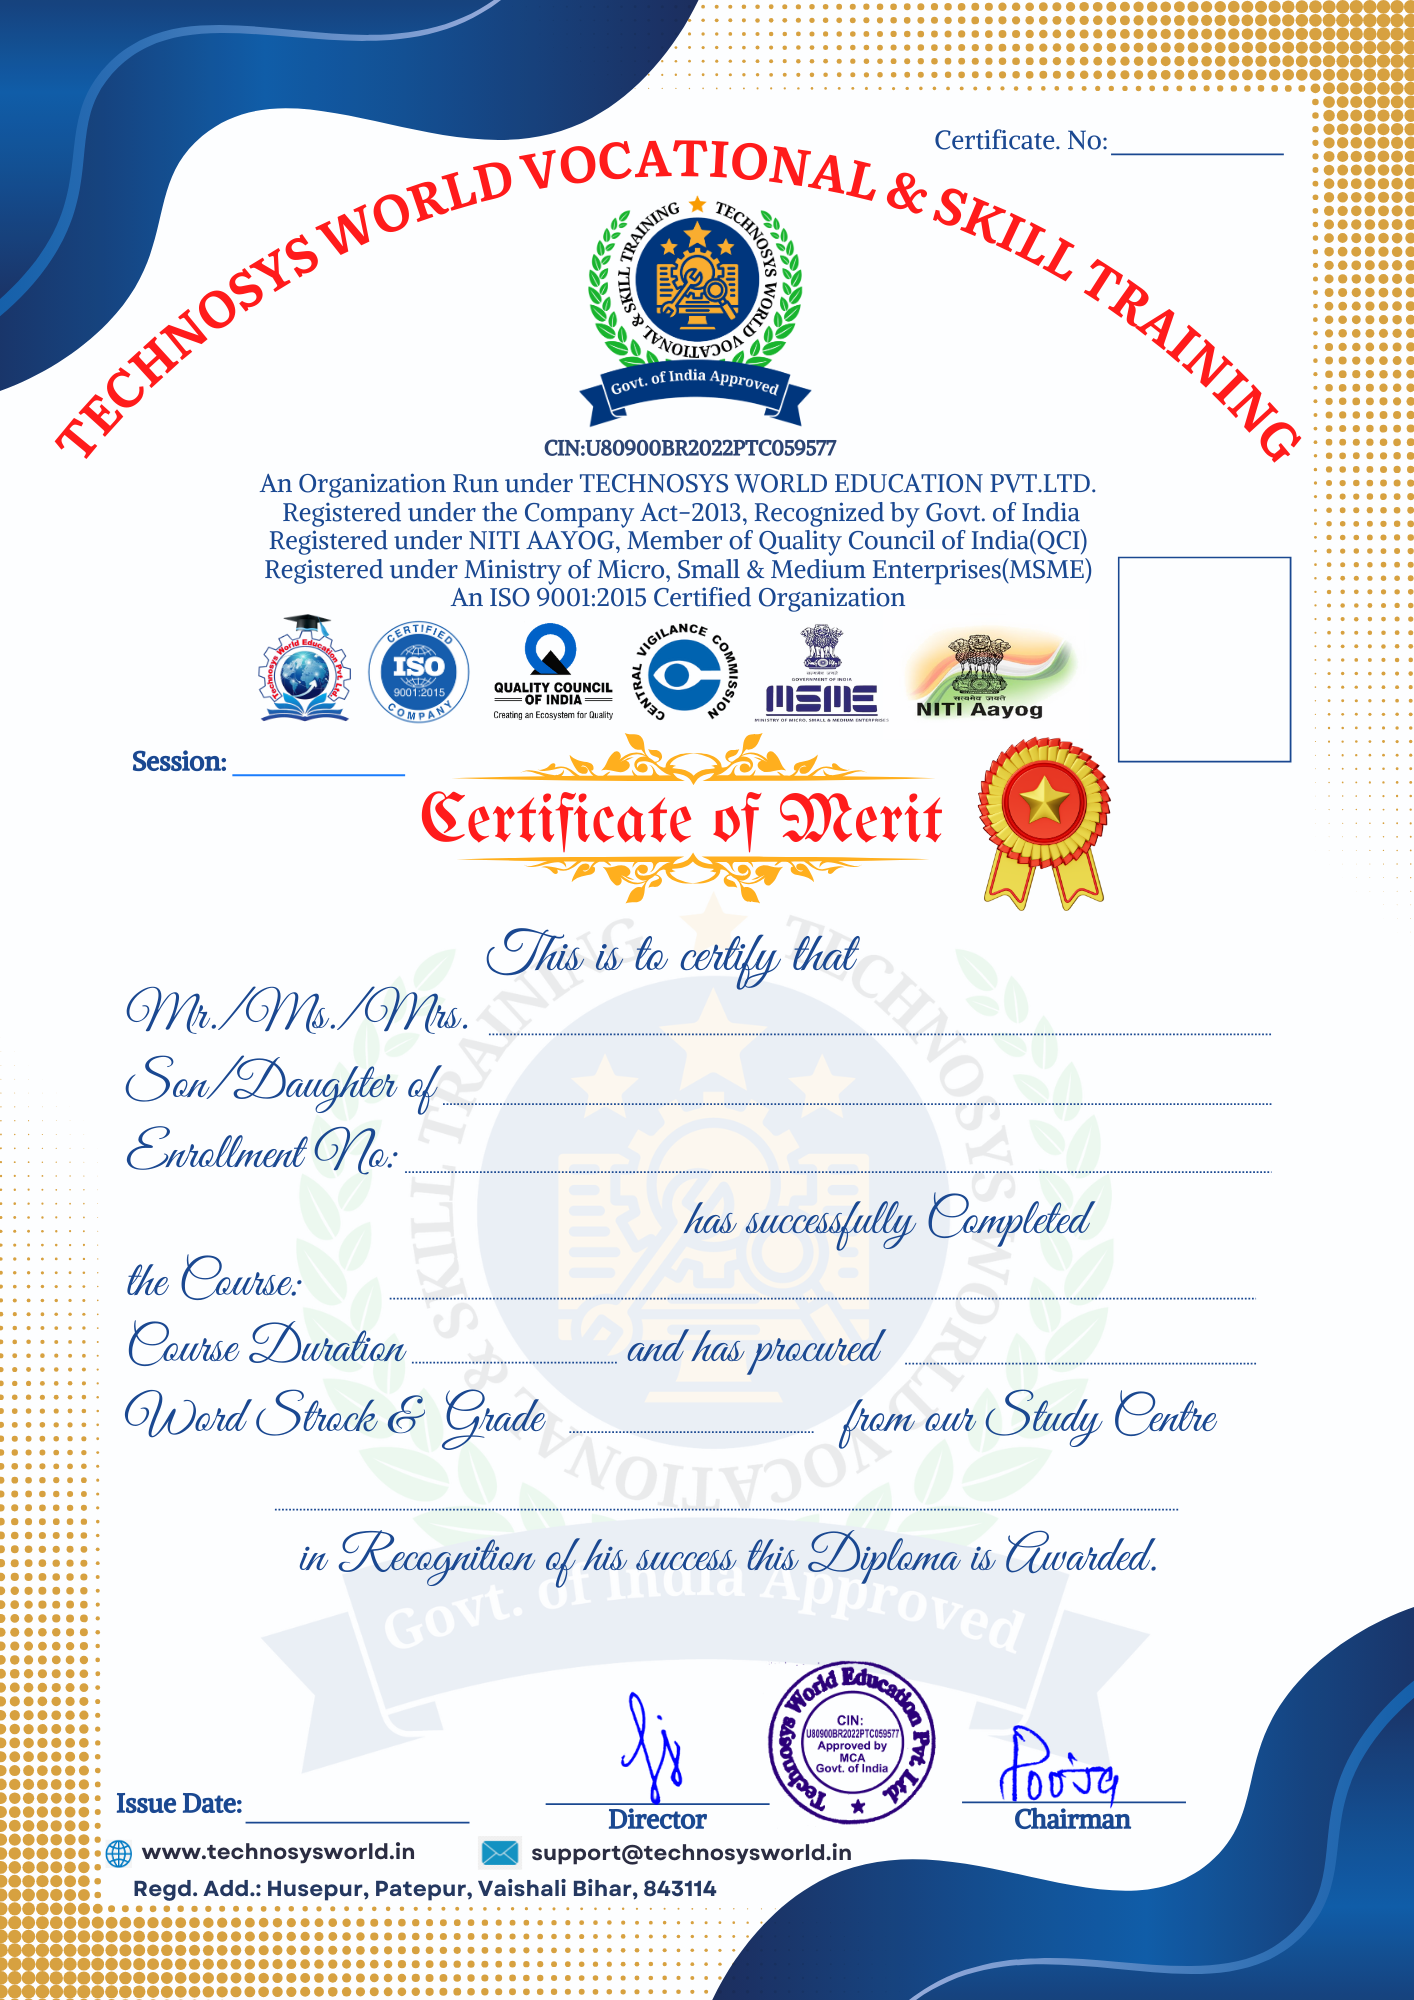
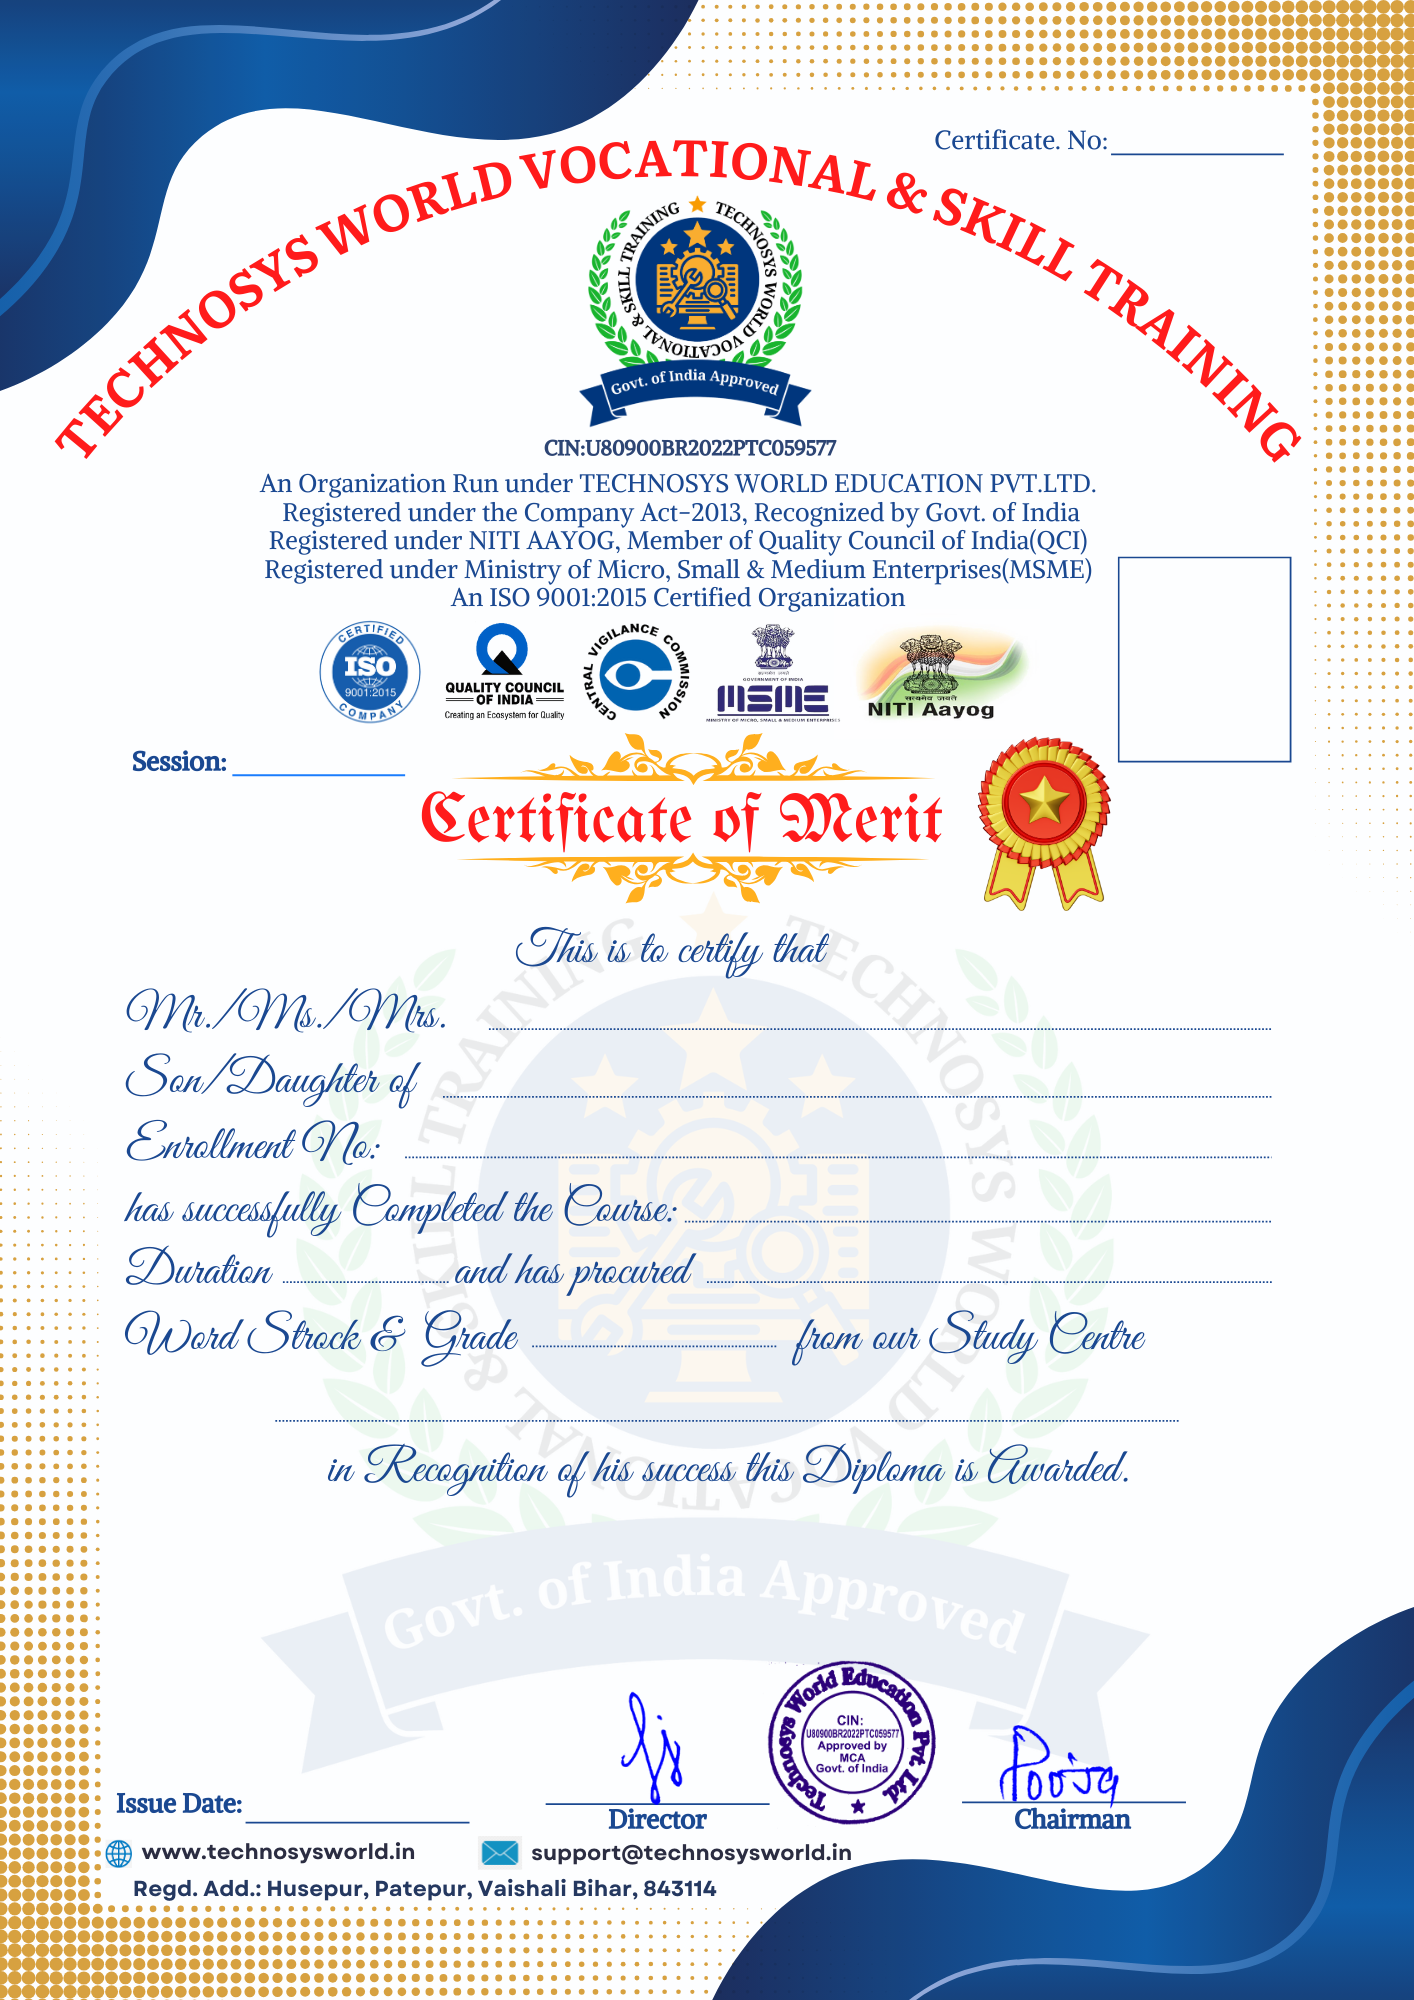
udpate typing certifiate with verificaation

Changed region(s): [[0.0934, 0.496, 0.8713, 0.806], [0.1867, 0.31, 0.7779, 0.372], [0.3423, 0.465, 0.6223, 0.496]]

diff --git a/modules/student/views/certificate/typing.php b/modules/student/views/certificate/typing.php
@@ -21,11 +21,15 @@ if (table_exists('student_typing_certicate')) {
                             <label for="" class="form-label">Procured</label>
                             <input type="text" required placeholder="Enter Procured.." name="procured" class="form-control">
                         </div>
-                        <div class="col-md-4 form-group mb-4">
+                        <div class="col-md-2 form-group mb-4">
                             <label for="grade" class="form-label required">Grade</label>
                             <input type="text" name="grade" required placeholder="Grade" class="form-control">
                         </div>
-                        <div class="col-md-4 form-group mb-4">
+                        <div class="col-md-3 form-group mb-4">
+                            <label for="grade" class="form-label required">Session</label>
+                            <input type="text" name="session" required placeholder="Session" class="form-control">
+                        </div>
+                        <div class="col-md-3 form-group mb-4">
                             <label for="grade" class="form-label required">Certification No</label>
                             <input type="text" name="certification_no" required placeholder="Certificate No" class="form-control">
                         </div>
@@ -64,6 +68,7 @@ if (table_exists('student_typing_certicate')) {
                                         <th>{rollno_text}</th>
                                         <th>Procured</th>
                                         <th>Grade</th>
+                                        <th>Session</th>
                                         <th>Action</th>
                                     </tr>
                                 </thead>
@@ -78,6 +83,9 @@ if (table_exists('student_typing_certicate')) {
                                             <td>' . $row->roll_no . '</td>
                                             <td>' . $row->procured . '</td>
                                             <td>' . $row->grade . '</td>
+                                            <td>
+                                                '.$row->session.'
+                                            </td>
                                             <td>
                                                 <a target="_blank" href="'.base_url('typing-certificate/'.base64_encode(base64_encode($row->id))).'" class="btn btn-xs btn-sm btn-info">
                                                     <i class="fa fa-eye"></i>

diff --git a/modules/template/views/student/verify-typing-certificate.php b/modules/template/views/student/verify-typing-certificate.php
@@ -1,0 +1,53 @@
+<div class="row">
+    <div class="col-md-12">
+        <div class="card">
+            <div class="card-header">
+                <h3 class="card-title">Verification Data of Typing Certificate</h3>
+            </div>
+            <div class="card-body">
+                <div class="table-responsive">
+                    <table class="table table-bordered table-striped">
+                        <tbody>
+                            <tr>
+                                <th>{rollno_text}</th>
+                                <td>{roll_no}</td>
+                                <td rowspan="3" style="width: 150px;padding:0">
+                                    <img src="{base_url}upload/{image}" style="width:150px;border:1px solid black">
+                                </td>
+                            </tr>
+                            <tr>
+                                <th>Student Name</th>
+                                <td>{student_name}</td>
+                            </tr>
+                            <tr>
+                                <th>Father Name</th>
+                                <td>{father_name}</td>
+                            </tr>
+                            <tr>
+                                <th>Course Name</th>
+                                <td colspan="2">{course_name} ( <?=humnize_duration($duration,$duration_type)?> )</td>
+                            </tr>
+                            <tr>
+                                <th>Procured</th>
+                                <td colspan="2">{procured}</td>
+                            </tr>
+                            
+                            <tr>
+                                <th>Grade / Session</th>
+                                <td colspan="2">{grade} / {session}</td>
+                            </tr>
+                            <tr>
+                                <th>Centre Name</th>
+                                <td colspan="2">{center_name}</td>
+                            </tr>
+                        </tbody>
+                    </table>
+                </div>
+            </div>
+        </div>
+    </div>
+</div>
+
+<script>
+    document.title = `{page_name}`;
+</script>

diff --git a/assets/formats/techno/typing-certificate.php b/assets/formats/techno/typing-certificate.php
@@ -94,16 +94,20 @@
 
     <p class="position-absolute " style="top:48%;left:35%;width:60%;text-align:center">{student_name}</p>
     <p class="position-absolute" style="top:51.6%;left:35%;width:60%;text-align:center">{father_name}</p>
-    <p class="position-absolute" style="top:55%;left:45%;width:60%;">{roll_no}</p>
-    <p class="position-absolute" style="top:68%;left:45%;width:60%;">{grade}</p>
+    <p class="position-absolute" style="top:54.5%;left:45%;width:60%;">{roll_no}</p>
+    <p class="position-absolute" style="top:64%;left:45%;width:60%;">{grade}</p>
 
-    <p class="position-absolute" style="top:72.2%;left:8%;width:84%;text-align:center">{center_name}</p>
-    <p class="position-absolute" style="top:61.7%;left:25%;text-align:center;width:70%">{course_name}</p>
-    <p class="position-absolute text-capitlize" style="top:64.8%;left:30%"><?=humnize_duration($duration,$duration_type)?></p>
-    <p class="position-absolute text-capitlize " style="top:64.8%;left:63%;width:250px;text-align:center">{procured}</p>
+    <p class="position-absolute" style="top:67.8%;left:8%;width:84%;text-align:center">{center_name}</p>
+    <p class="position-absolute" style="top:58%;left:48%;text-align:center;width:340px;line-height:1">{course_name}</p>
+    <p class="position-absolute text-capitlize" style="top:60.7%;left:21%"><?=humnize_duration($duration,$duration_type)?></p>
+    <p class="position-absolute text-capitlize " style="top:60.9%;left:49%;width:340px;text-align:center;line-height:1">{procured}</p>
   
-   <p class="position-absolute" style="bottom:7.7%;left:20%;font-size:12px">{issue_date}</p>
-
+   <p class="position-absolute" style="bottom:7.7%;left:20%;">{issue_date}</p>
+   <div class="position-absolute" style="bottom:18.6%;right:5%">
+    <img src="<?=$this->ki_theme->generate_qr($typing_certificate_id,'typing_certificate',base_url('verify-typing-certificate/'.$this->token->encode([
+                        'id' => $typing_certificate_id
+    ])),true,10)?>" alt="" style="width:100px;border:1px solid black">
+   </div>
 </body>
 
 </html>

diff --git a/modules/site/controllers/Site.php b/modules/site/controllers/Site.php
@@ -231,6 +231,31 @@ class Site extends Site_Controller
             $this->error_404();
         }
     }
+    function typing_certificate(){
+        // for verificiation..
+        $token = $this->uri->segment(2);
+        try {
+            $this->token->decode($token);
+            $id = $this->token->data('id');
+            $get = $this->student_model->typing_certificate($id);
+            if (!$get->num_rows())
+                throw new Exception('Not Found.');
+            $data = $get->row_array();
+            $this->set_data('page_name', $data['student_name'] . ' Typing Certificate');
+            $this->set_data('typing_certificate_id', $data['typing_certificate_id']);
+            $this->set_data($data);
+            $this->set_data('isPrimary', false);
+            // $this->load->module('document');
+            $html = '<div class="container pt-3" style="' . (THEME == 'theme-06' ? 'margin-top:160px' : '') . '">' . $this->template('student/verify-typing-certificate') . '</div>';
+            // $this->render($html, 'content');
+            $this->render(
+                'schema',
+                ['content' => $html]
+            );
+        } catch (Exception $e) {
+            $this->error_404();
+        }
+    }
     function marksheet_print()
     {
         $token = $this->uri->segment(2);
@@ -354,6 +379,9 @@ class Site extends Site_Controller
     }
     function test()
     {
+        echo base_url('typing-certificate/'. $this->token->encode([
+            'id' => 1
+        ]));
 
         // $url = base_url('marksheet_print/' . $this->token->encode(['id' => 2]));
         // echo $this->ki_theme->generate_qr(2, 'front_marksheet', $url);

diff --git a/engine/config/routes.php b/engine/config/routes.php
@@ -70,6 +70,7 @@ $route['provisional-certificate/(:any)'] = 'document/provisional_certificate/$1'
 $route['no-objection-certificate/(:any)'] = 'document/no_objection_certificate/$1';
 $route['migration-certificate/(:any)'] = 'document/migration_certificate/$1';
 $route['typing-certificate/(:any)'] = 'document/typing-certificate/$1';
+$route['verify-typing-certificate/(:any)'] = 'site/typing-certificate/$1';
 $route['course-details/(:any)'] = 'site/course_details/$1';
 $route['iso/(:any)'] = 'document/iso/$1';
 $route['(:any)'] = 'site/index';

diff --git a/engine/models/Student_model.php b/engine/models/Student_model.php
@@ -303,7 +303,7 @@ class Student_model extends MY_Model
 
                 break;
             case 'typing_certificate':
-                $this->db->select('stc.*');
+                $this->db->select('stc.*,stc.id as typing_certificate_id');
                 $this->db->join('student_typing_certicate as stc', 'stc.student_id = s.id');
                 $this->db->where('stc.id', $id);
                 break;
